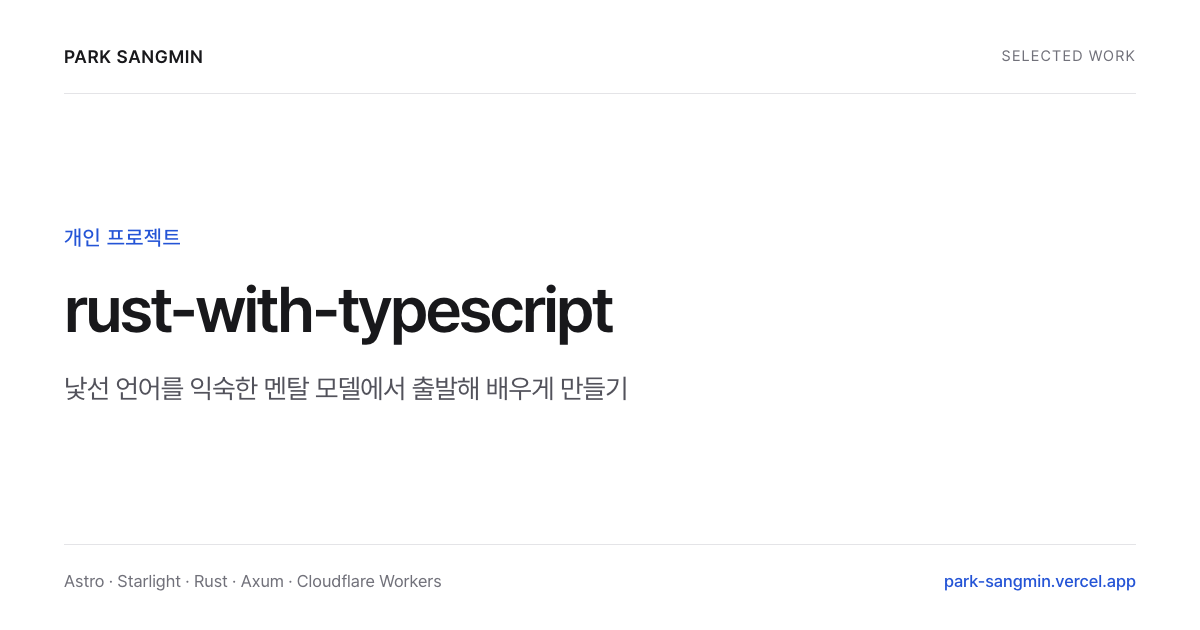
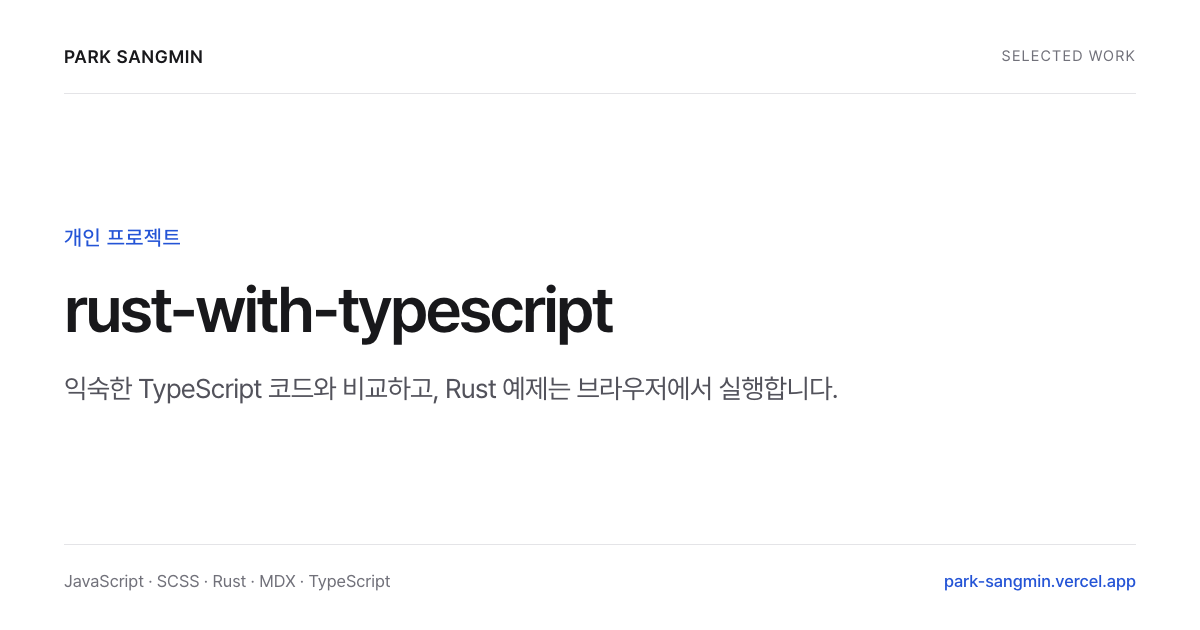
Add Oddmash Agents case study and project diagrams

Changed region(s): [[0.0617, 0.573, 0.7092, 0.6333], [0.0617, 0.9048, 0.37, 0.9349]]

diff --git a/src/i18n/projects.ts b/src/i18n/projects.ts
@@ -1,10 +1,13 @@
+import type { ProjectFlowId } from '../data/project-flows';
+
 export interface ProjectSection {
   id: string;
   title: string;
   paragraphs: string[];
+  flow?: ProjectFlowId;
   links?: { label: string; href: string }[];
   notes?: { title: string; paragraphs: string[] };
-  subsections?: { title: string; paragraphs: string[]; items?: string[] }[];
+  subsections?: { title: string; paragraphs: string[]; items?: string[]; flow?: ProjectFlowId }[];
 }
 
 export interface ProjectTranslation {
@@ -24,6 +27,49 @@ export interface ProjectTranslation {
 export const projectKey = (slug: string) => slug.replace(/^\d+-/, '');
 
 export const projectEn: Record<string, ProjectTranslation> = {
+  'oddmash-agents': {
+    category: 'Open Source · GitHub Automation',
+    role: 'Design and development',
+    thesis: 'Review the current change and leave evidence contributors can act on in GitHub.',
+    responsibility: 'GitHub App and review workflow, CI decisions, review threads, and Oddmash Skills integration',
+    summary: 'I built a GitHub App that reviews Oddmash pull requests after required checks pass and leaves findings on the affected lines.',
+    focus: ['GitHub reviews', 'CI evidence', 'Review threads', 'Shared guidance'],
+    sections: [
+      {
+        id: 'contributor-workflow',
+        title: 'What contributors see in a pull request',
+        paragraphs: [
+          'Oddmash repositories have different tests and working agreements. CI tells contributors whether checks passed. I built Oddmash Agents to show where a change could break existing behavior and leave that evidence beside the affected code in GitHub.',
+          'Lead submits the formal review after required CI passes. Specialists such as QA, Docs, and Architect offer advice where their expertise is relevant. When a new commit arrives, the previous review can no longer support approval of that commit. A maintainer can request a fresh review with /review.',
+        ],
+        flow: 'agents-review',
+      },
+      {
+        id: 'ci-evidence',
+        title: 'When CI results disagree on the same commit',
+        paragraphs: [
+          'In Oddmash UI pull request #51, a canceled run and its successful replacement both appeared on the same commit, leaving review stuck waiting. Matching by check name alone could mix results from different workflows. I matched runs against the workflow, pull request, and commit before excluding superseded results.',
+          'I replayed the real check data to verify that the replacement unblocked the review. Review cannot proceed when the current run fails or the workflow history is ambiguous.',
+        ],
+        flow: 'agents-ci',
+      },
+      {
+        id: 'review-threads',
+        title: 'Verify fixes in the original thread',
+        paragraphs: [
+          'GitHub rejected a standalone inline reply while the app had a pending review. I used GraphQL to attach the reply to that pending review and submit it as a comment, keeping the finding and the verified fix in the same thread.',
+          'On a public Oddmash Skills test pull request, I queried GitHub for the thread’s resolved state and confirmed Lead as the resolver. This behavior was verified in a repository explicitly enabled for Lead.',
+        ],
+      },
+      {
+        id: 'shared-guidance',
+        title: 'Apply each repository’s working agreements',
+        paragraphs: [
+          'The review reads repository guidance from the pull request’s base revision and uses role-specific Oddmash Skills guidance bundled from an approved catalog commit. Docs checks whether instructions match the code. QA looks for gaps in verification. Review and merge follow separate policies, and contributors can see the results in enrolled Oddmash repositories.',
+        ],
+      },
+    ],
+  },
   juliya: {
     category: 'Open Source · Web Typography',
     role: 'Development and maintenance',
@@ -205,7 +251,7 @@ export const projectEn: Record<string, ProjectTranslation> = {
             "id": "problem",
             "title": "The same authentication boundary was maintained in several apps",
             "paragraphs": [
-                "Notiiv includes an admin console, owner dashboard, status app, and support site. I maintained shared BFF and Query infrastructure and improved operational interfaces and browser boundaries.",
+                "Notiiv includes an admin console, owner dashboard, status app, and support site. I maintained the shared proxy between the frontend and backend APIs and the TanStack Query infrastructure. I also improved operator screens and fixed webview-specific behavior.",
                 "Separate proxies duplicated path checks, cookie injection, refresh, and error handling. Fixing one app could leave another behind. A single rigid proxy would introduce a different problem: app-specific login responses and uploads would become entangled with shared infrastructure.",
                 "Operators also encountered mismatched FAQ previews, spreadsheet-dependent customer entry, webview download restrictions, and PDF page navigation during zoom."
             ]
@@ -482,14 +528,15 @@ export const projectEn: Record<string, ProjectTranslation> = {
           {
             "title": "Choose a UI engine behind a replaceable boundary",
             "paragraphs": [
-              "The recorded ADR compares Univer, ONLYOFFICE, and a custom engine. A custom grid would require selection, keyboard, clipboard, and formula UI work. ONLYOFFICE offers broad editing but introduces frame and deployment considerations for an embedded MCP App.",
+              "I compared Univer, ONLYOFFICE, and building a grid from scratch in a design decision record. A custom grid would require selection, keyboard, clipboard, and formula UI work. ONLYOFFICE offers broad editing but introduces frame and deployment considerations for an embedded MCP App.",
               "I chose Univer OSS behind SpreadsheetEngine for direct range control and embedding, while the Go adapter owns validated operations, revisions, conflicts, and persistence. This preserves a path to replace the UI engine, at the cost of maintaining compatibility mapping and verification."
             ]
           },
           {
-            "title": "Reject stale writes rather than guessing a merge",
+            "title": "Return a conflict when an edit uses an older revision",
+            "flow": "foloom-revision",
             "paragraphs": [
-              "Browser and AI writes carry an actor, base revision, and operations through one commit path. Of two requests based on revision 12, the first saves revision 13 and the second receives a conflict. A whole batch is validated before candidate mutation.",
+              "Browser and AI edits go through the same save path. Each request carries the version it read and the changes it intends to make. The server validates the whole batch before changing a working copy.",
               "Structural edits such as row insertion and merges make blind replay unsafe. This coarse boundary may reject simultaneous edits to different cells, but keeps the source state explicit. Finer automatic merging requires additional semantic rules."
             ]
           },
@@ -551,7 +598,7 @@ export const projectEn: Record<string, ProjectTranslation> = {
       "Vite overlay",
       "Benchmarking"
     ],
-    "summary": "A published Rust CLI and TypeScript runtime connecting BR-001 through BR-006 architecture checks with Zod contracts, scaffolding, and Vite feedback.",
+    "summary": "A CLI that finds disallowed imports in TypeScript and points developers to the affected line. Zod contracts validate requests and responses at runtime.",
     "evidence": [
       {
         "val": "Boundary checks",
@@ -576,9 +623,10 @@ export const projectEn: Record<string, ProjectTranslation> = {
         "paragraphs": [],
         "subsections": [
           {
-            "title": "Stable architecture rule codes",
+            "title": "Find imports that cross an architecture boundary",
+            "flow": "boundra-import",
             "paragraphs": [
-              "The Rust analyzer uses domain manifests and BR-001 through BR-006 for client and server boundaries, shared-layer dependencies, private domain access, composition roots, and undeclared dependencies. Diagnostics retain stable codes and actionable paths."
+              "The Rust analyzer reads each domain manifest to identify the project’s boundaries and public entry points. Stable rule codes help developers find the relevant documentation, and diagnostics point to the affected file and line. For example, BR-001 flags an import from browser code into a server implementation."
             ]
           },
           {

diff --git a/src/data/project-flows.ts b/src/data/project-flows.ts
@@ -1,0 +1,79 @@
+type Step = { label: string; detail: string };
+type Flow = { caption: string; steps: Step[] };
+
+export const projectFlows = {
+  'agents-review': {
+    ko: {
+      caption: 'Oddmash에서 PR을 열고 리뷰를 받기까지',
+      steps: [
+        { label: 'PR 열기', detail: '기여자가 리뷰 대상 저장소에 변경 제안' },
+        { label: '필수 CI 확인', detail: 'Lead가 현재 커밋의 검사 통과를 확인' },
+        { label: 'GitHub 리뷰', detail: 'Lead가 근거를 남기고 유지보수자가 대응을 판단' },
+      ],
+    },
+    en: {
+      caption: 'From opening a pull request to receiving a review',
+      steps: [
+        { label: 'Open a PR', detail: 'A contributor proposes a change in an enrolled repository' },
+        { label: 'Check required CI', detail: 'Lead verifies the required checks on the current commit' },
+        { label: 'Review in GitHub', detail: 'Lead posts its findings and the maintainer decides how to respond' },
+      ],
+    },
+  },
+  'agents-ci': {
+    ko: {
+      caption: 'Oddmash UI PR #51의 검사 결과를 재현한 흐름',
+      steps: [
+        { label: '이전 실행 취소', detail: '취소된 검사 결과가 커밋에 남음' },
+        { label: '후속 실행 성공', detail: '같은 커밋에서 새 워크플로 실행이 통과' },
+        { label: '현재 결과로 판단', detail: '교체 관계를 확인해 이전 실행을 제외하고 리뷰 진행' },
+      ],
+    },
+    en: {
+      caption: 'Replay of CI evidence from Oddmash UI pull request #51',
+      steps: [
+        { label: 'Earlier run canceled', detail: 'Canceled checks remain attached to the commit' },
+        { label: 'Replacement passes', detail: 'A newer workflow run passes on the same commit' },
+        { label: 'Use current results', detail: 'Confirm the replacement, exclude the older run, and proceed to review' },
+      ],
+    },
+  },
+  'foloom-revision': {
+    ko: {
+      caption: '예시 · 같은 문서 버전에서 시작한 두 요청',
+      steps: [
+        { label: '버전 12 열기', detail: '사람과 AI가 같은 버전의 문서를 읽음' },
+        { label: '사람의 변경 저장', detail: '먼저 저장된 요청이 반영되어 버전 13 생성' },
+        { label: 'AI 요청에 충돌 반환', detail: '버전 12를 기준으로 보낸 변경을 거절하고 버전 13 보존' },
+      ],
+    },
+    en: {
+      caption: 'Example · Two edits start from the same workbook revision',
+      steps: [
+        { label: 'Read revision 12', detail: 'A person and an AI read the same workbook revision' },
+        { label: 'Save the first edit', detail: 'The first successful save creates revision 13' },
+        { label: 'Return a conflict', detail: 'The AI’s edit was based on revision 12, so revision 13 is preserved' },
+      ],
+    },
+  },
+  'boundra-import': {
+    ko: {
+      caption: 'BR-001 예시 · 같은 도메인에서 브라우저 코드가 서버 구현을 가져오는 경우',
+      steps: [
+        { label: 'client/list.ts', detail: '상품 목록을 그리는 브라우저 코드' },
+        { label: 'server/repository.ts', detail: '가져오려는 서버 데이터 접근 코드' },
+        { label: 'CLI 진단 · BR-001', detail: '가져온 파일과 줄을 표시해 브라우저·서버 경계 위반을 알림' },
+      ],
+    },
+    en: {
+      caption: 'BR-001 example · Browser code imports a server implementation in the same domain',
+      steps: [
+        { label: 'client/list.ts', detail: 'Browser code that renders the product list' },
+        { label: 'server/repository.ts', detail: 'Server-side data access the import points to' },
+        { label: 'CLI diagnostic · BR-001', detail: 'The diagnostic identifies the import location that crossed the boundary' },
+      ],
+    },
+  },
+} satisfies Record<string, Record<'ko' | 'en', Flow>>;
+
+export type ProjectFlowId = keyof typeof projectFlows;

diff --git a/tests/visual/original-screens.spec.ts b/tests/visual/original-screens.spec.ts
@@ -130,9 +130,8 @@ test('home uses project branding and Foloom uses its favicon beside the title in
     const oddmash = page.locator('#oddmash');
     await expect(oddmash.getByRole('heading', { name: 'Oddmash', exact: true })).toBeVisible();
     const agents = oddmash.getByRole('link', { name: /Oddmash Agents/ });
-    await expect(agents).toHaveAttribute('href', 'https://github.com/Oddmash/oddmash-agents/blob/main/docs/public-onboarding.md');
+    await expect(agents).toHaveAttribute('href', `${prefix}/projects/oddmash-agents`);
     await expect(agents.locator('img')).toHaveAttribute('src', '/projects/oddmash/lead.svg');
-    await expect(agents.locator('.usage')).toContainText(prefix ? 'enrolled Oddmash repository' : '리뷰가 설정된 Oddmash 저장소');
     const skills = oddmash.getByRole('link', { name: /Oddmash Skills/ });
     await expect(skills).toHaveAttribute('href', 'https://github.com/Oddmash/oddmash-skills');
     await expect(skills.locator('img')).toHaveAttribute('src', '/projects/oddmash/mark.png');
@@ -189,12 +188,27 @@ test('work, contents and language links retain navigation', async ({ page }, tes
 
 test('layouts stay within narrow and desktop viewports', async ({ page }, testInfo) => {
   const widths = testInfo.project.name === 'mobile' ? [320, 375, 390] : [1440, 1505];
+  const flowIds: Record<string, string[]> = {
+    'oddmash-agents': ['agents-review', 'agents-ci'],
+    'document-workspace': ['foloom-revision'],
+    boundra: ['boundra-import'],
+  };
+  const cases = Object.keys(flowIds).flatMap((slug) => ['/projects/', '/en/projects/'].map((prefix) => prefix + slug + '/'));
   for (const width of widths) {
     await page.setViewportSize({ width, height: 1045 });
-    for (const route of ['/', '/en/', '/projects/design-system/', '/en/projects/document-workspace/']) {
+    for (const route of ['/', '/en/', '/projects/design-system/', ...cases]) {
       await page.goto(route);
       const overflow = await page.evaluate(() => document.documentElement.scrollWidth - document.documentElement.clientWidth);
       expect(overflow, `${route} at ${width}px`).toBeLessThanOrEqual(1);
+      const ids = flowIds[route.split('/').at(-2) ?? ''] ?? [];
+      const flows = page.locator('article [data-case-flow]');
+      await expect(flows).toHaveCount(ids.length);
+      for (const [index, id] of ids.entries()) {
+        const figure = flows.nth(index);
+        await expect(figure).toHaveAttribute('data-case-flow', id);
+        await expect(figure.locator('figcaption')).not.toBeEmpty();
+        await expect(figure.getByRole('listitem')).toHaveCount(3);
+      }
     }
   }
 });
@@ -231,7 +245,7 @@ test('text contents follow the article and highlight the current section', async
 test('every project detail has a working product capture or logo in Korean and English', async ({ page }) => {
   await page.goto('/');
   const routes = await page.locator('#projects a[href*="/projects/"]').evaluateAll((links) => [...new Set(links.map((link) => new URL((link as HTMLAnchorElement).href).pathname))]);
-  expect(routes).toHaveLength(16);
+  expect(routes).toHaveLength(17);
   for (const prefix of ['', '/en']) {
     for (const route of routes) {
       const response = await page.goto(`${prefix}${route}`);
@@ -251,7 +265,7 @@ test('every project detail has a working product capture or logo in Korean and E
 
 test('intranet shows the localized approval capture after notification routing', async ({ page }) => {
   for (const { prefix, asset, dimensions, heading } of [
-    { prefix: '', asset: 'approval.png', dimensions: [1320, 2868], heading: /Notification Routing/ },
+    { prefix: '', asset: 'approval.png', dimensions: [1320, 2868], heading: /알림에서 처리할 결재 문서로 바로 이동/ },
     { prefix: '/en', asset: 'approval-en.png', dimensions: [2752, 2064], heading: /Route notifications/ },
   ]) {
     await page.goto(`${prefix}/projects/intranet/`);

diff --git a/src/data/project-brand.ts b/src/data/project-brand.ts
@@ -3,6 +3,7 @@ export const projectIcons: Record<string, string> = {
   notiiv: '/projects/notiiv/favicon.svg',
   'document-workspace': '/projects/document-workspace/favicon.svg',
   intranet: '/projects/intranet/icon.png',
+  'oddmash-agents': '/projects/oddmash/lead.svg',
   boundra: '/projects/boundra/icon.svg',
   juliya: '/projects/juliya/favicon.svg',
   'interaction-inspector': '/projects/interaction-inspector/icon.png',

diff --git a/README.md b/README.md
@@ -9,6 +9,7 @@
 ## 포트폴리오 구성
 
 - **대표 프로젝트**에는 Bigtablet Design System, Notiiv, Foloom, OWKR Community Tools에서 맡은 역할과 설계 과정을 담았습니다.
+- **Oddmash**에는 [Oddmash Agents 사례](https://park-sangmin.vercel.app/projects/oddmash-agents/)와 Skills, UI 등 공개 자료를 모았습니다.
 - **다른 작업**에는 Kowrap에서 시작해 네 언어의 줄바꿈을 지원하는 [Juliya](https://park-sangmin.vercel.app/projects/juliya/)와 TypeScript 도메인 경계를 검사하는 [Boundra](https://park-sangmin.vercel.app/projects/boundra/) 등이 있습니다. Echo와 Chorus는 ‘이전 작업 더 보기’에서 열 수 있습니다.
 - **글과 커뮤니티**에서는 직접 조작해 볼 수 있는 예제를 담은 기술 블로그 [여백](https://qtaghdi.github.io/yeobaek/)과 Velog 글을 소개합니다.
 
